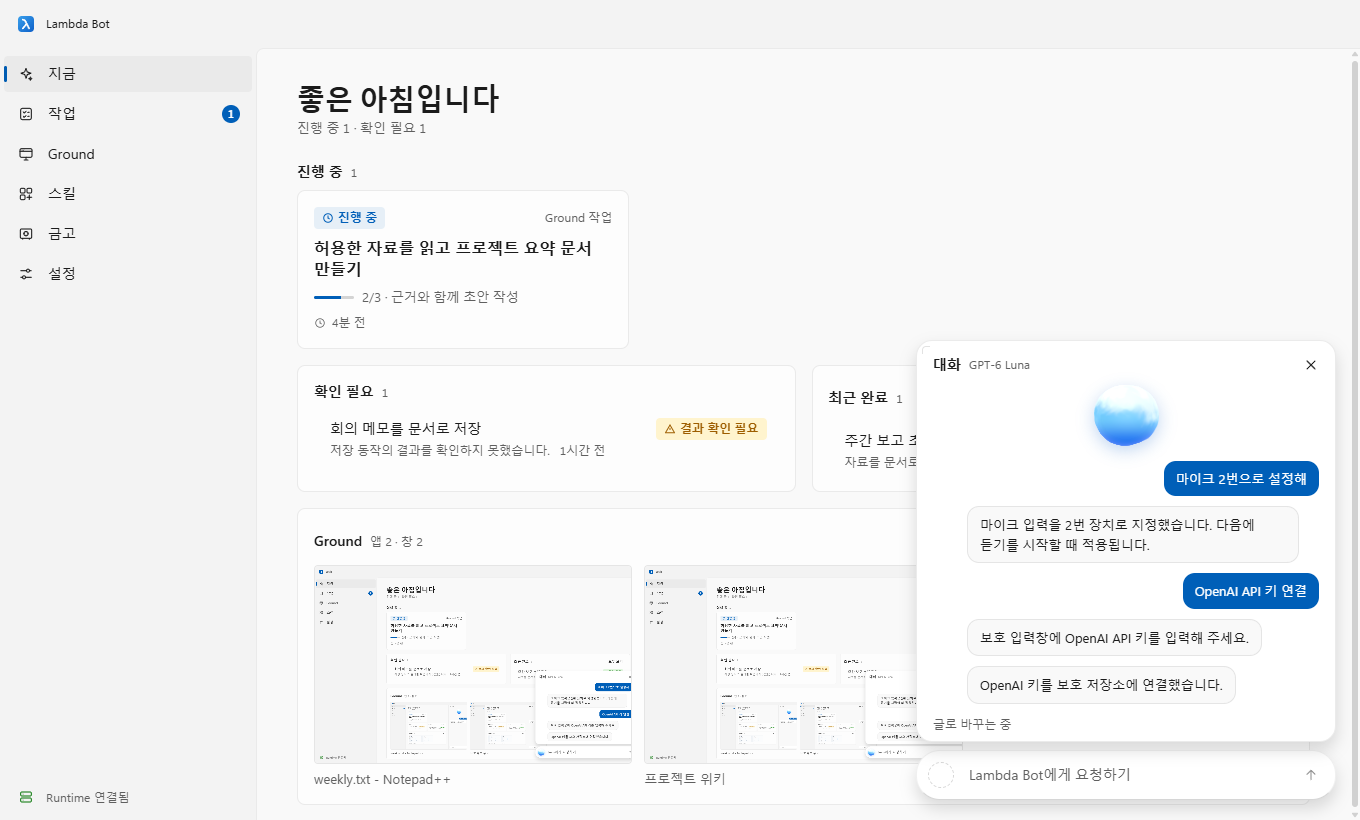
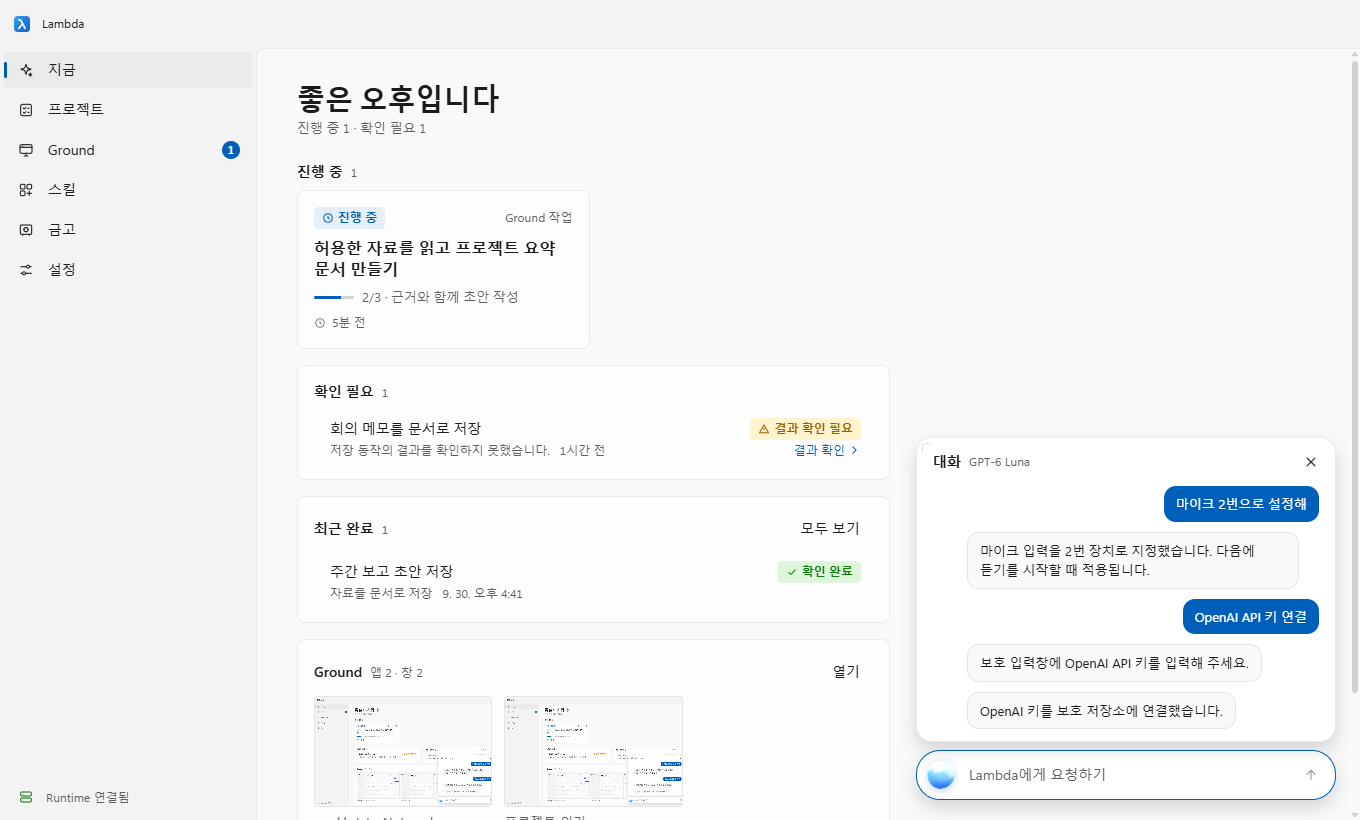
Publish Lambda branding and v0.5.19 installation guidance

diff --git a/README.md b/README.md
@@ -1,30 +1,30 @@
 <div align="center">
 
-<img src="assets/logo.svg" alt="Lambda Bot" width="168" height="168">
+<img src="assets/logo.svg" alt="Lambda" width="168" height="168">
 
-# Lambda Bot
+# Lambda
 
 ### A background assistant for Windows
 
 **It works quietly in the background, notices when you might need a hand, and always asks first.**
 
-<a href="https://github.com/atozuser0224/jevis-installer/releases/latest"><img src="https://img.shields.io/github/v/release/atozuser0224/jevis-installer?style=for-the-badge&label=DOWNLOAD&color=2f86e0" alt="Download the latest release"></a>
+<a href="https://github.com/atozuser0224/lambda-installer/releases/latest"><img src="https://img.shields.io/github/v/release/atozuser0224/lambda-installer?style=for-the-badge&label=DOWNLOAD&color=2f86e0" alt="Download the latest release"></a>
 <img src="https://img.shields.io/badge/Windows-10%20%7C%2011-0d5fc8?style=for-the-badge&logo=windows11&logoColor=white" alt="Windows 10 and 11">
-<img src="https://img.shields.io/github/downloads/atozuser0224/jevis-installer/total?style=for-the-badge&color=6b5cf0" alt="Downloads">
+<img src="https://img.shields.io/github/downloads/atozuser0224/lambda-installer/total?style=for-the-badge&color=6b5cf0" alt="Downloads">
 
 **English** · [한국어](README.ko.md)
 
 <br>
 
-<img src="assets/main.png" alt="The Lambda Bot main window with its conversation panel and the voice orb" width="920">
+<img src="assets/main.png" alt="The Lambda main window with its conversation panel and the voice orb" width="920">
 
 </div>
 
 <br>
 
-## What is Lambda Bot?
+## What is Lambda?
 
-Lambda Bot is an assistant that lives on your PC instead of in a browser tab. A small glowing **orb** sits in your taskbar. Talk to it or type, and it gets things done with the models and tools you choose. Work runs in the background, so what you are doing in front is never interrupted.
+Lambda is an assistant that lives on your PC instead of in a browser tab. A small glowing **orb** sits in your taskbar. Talk to it or type, and it gets things done with the models and tools you choose. Work runs in the background, so what you are doing in front is never interrupted.
 
 It also pays attention, if you let it. When something looks stuck, such as an error dialog that just popped up, the orb peeks out and **asks whether you want help**. You answer with one click. Nothing is done behind your back.
 
@@ -52,7 +52,7 @@ It also pays attention, if you let it. When something looks stuck, such as an er
 
 ## Private by design
 
-Lambda Bot can learn what you are working on so its offers are timely, but only if you say yes, and only what is needed.
+Lambda can learn what you are working on so its offers are timely, but only if you say yes, and only what is needed.
 
 <div align="center">
 <img src="assets/consent.png" alt="The consent screen listing what is and is not recorded" width="760">
@@ -60,36 +60,37 @@ Lambda Bot can learn what you are working on so its offers are timely, but only 
 
 - **Opt-in.** Nothing is recorded until you agree in Settings, and you can pause or erase everything at any time.
 - **Just app names and time.** It records which app was in front and for how long. It does **not** record your screen, window contents, keystrokes or what you say.
-- **Skips sensitive places.** Titles of messaging and mail windows are never kept, and password managers, private windows and Lambda Bot itself are left out.
+- **Skips sensitive places.** Titles of messaging and mail windows are never kept, and password managers, private windows and Lambda itself are left out.
 - **Stays on your PC.** The record is encrypted with Windows and deleted after 90 days.
 - **Quiet when it should be.** No offers while you are in a full-screen app, presenting or away, and the orb's bubbles are hidden from screen capture.
 
 ## Install
 
-1. Download **`JevisSetup.exe`** from the [latest release](https://github.com/atozuser0224/jevis-installer/releases/latest) and run it.
+1. Download **`LambdaSetup.exe`** from the [latest release](https://github.com/atozuser0224/lambda-installer/releases/latest) and run it.
 2. Pick what to install. The installer downloads and sets up what is missing:
-   - Lambda Bot (required)
+   - Lambda (required)
    - .NET 8 Desktop Runtime (only if you do not have it)
    - Python 3.11 with the voice and AI libraries (required, about 3 GB)
    - A desktop shortcut
-3. Start Lambda Bot and follow the first-run screen. Voice models are downloaded there, and you connect a model provider or a CLI you already use.
+3. Start Lambda and follow the first-run screen. Voice models are downloaded there, and you connect a model provider or a CLI you already use.
 
 **Requirements:** Windows 10 or 11.
 
 > [!NOTE]
 > The installer is not code-signed yet, so Windows SmartScreen may warn you. Choose **More info**, then **Run anyway**.
 
-Lambda Bot was previously called Jevis, which is why the installer file and install folder still carry that name.
 
 ## Updating
 
-Lambda Bot checks this page for new releases and tells you inside the app. **Update** downloads the latest version into the same folder.
+Version 0.5.19 uses the Lambda name for the installer, app folder and data folders. For versions installed under a previous name, run `LambdaSetup.exe` from the latest release. Existing settings, history and credentials are retained in their original folders but are not migrated automatically.
+
+Lambda checks this page for new releases and tells you inside the app. **Update** downloads the latest version into the same folder.
 
 ## Feedback
 
-Found a bug or have an idea? [Open an issue](https://github.com/atozuser0224/jevis-installer/issues).
+Found a bug or have an idea? [Open an issue](https://github.com/atozuser0224/lambda-installer/issues).
 
 <div align="center">
 <br>
-<sub>Lambda Bot · a background assistant for Windows</sub>
+<sub>Lambda · a background assistant for Windows</sub>
 </div>

diff --git a/README.ko.md b/README.ko.md
@@ -1,30 +1,30 @@
 <div align="center">
 
-<img src="assets/logo.svg" alt="Lambda Bot" width="168" height="168">
+<img src="assets/logo.svg" alt="Lambda" width="168" height="168">
 
-# Lambda Bot
+# Lambda
 
 ### Windows용 백그라운드 어시스턴트
 
 **조용히 뒤에서 일하고, 도움이 필요해 보이면 알아채고, 언제나 먼저 물어봅니다.**
 
-<a href="https://github.com/atozuser0224/jevis-installer/releases/latest"><img src="https://img.shields.io/github/v/release/atozuser0224/jevis-installer?style=for-the-badge&label=DOWNLOAD&color=2f86e0" alt="최신 릴리스 다운로드"></a>
+<a href="https://github.com/atozuser0224/lambda-installer/releases/latest"><img src="https://img.shields.io/github/v/release/atozuser0224/lambda-installer?style=for-the-badge&label=DOWNLOAD&color=2f86e0" alt="최신 릴리스 다운로드"></a>
 <img src="https://img.shields.io/badge/Windows-10%20%7C%2011-0d5fc8?style=for-the-badge&logo=windows11&logoColor=white" alt="Windows 10, 11">
-<img src="https://img.shields.io/github/downloads/atozuser0224/jevis-installer/total?style=for-the-badge&color=6b5cf0" alt="다운로드 수">
+<img src="https://img.shields.io/github/downloads/atozuser0224/lambda-installer/total?style=for-the-badge&color=6b5cf0" alt="다운로드 수">
 
 [English](README.md) · **한국어**
 
 <br>
 
-<img src="assets/main.png" alt="대화창과 음성 오브가 있는 Lambda Bot 메인 화면" width="920">
+<img src="assets/main.png" alt="대화창과 음성 오브가 있는 Lambda 메인 화면" width="920">
 
 </div>
 
 <br>
 
-## Lambda Bot이 뭔가요?
+## Lambda가 뭔가요?
 
-Lambda Bot은 브라우저 탭이 아니라 내 PC 안에 사는 어시스턴트입니다. 작업표시줄에 작은 **오브**가 떠 있고, 말이나 글로 부탁하면 내가 고른 모델과 도구로 일을 처리합니다. 일은 뒤에서 돌아가므로 지금 하던 작업은 끊기지 않습니다.
+Lambda는 브라우저 탭이 아니라 내 PC 안에 사는 어시스턴트입니다. 작업표시줄에 작은 **오브**가 떠 있고, 말이나 글로 부탁하면 내가 고른 모델과 도구로 일을 처리합니다. 일은 뒤에서 돌아가므로 지금 하던 작업은 끊기지 않습니다.
 
 허락하면 지켜보기도 합니다. 방금 오류 창이 떴다거나 막힌 것처럼 보이면 오브가 빼꼼 나와서 **도와드릴까요?** 하고 먼저 묻습니다. 한 번 클릭으로 답하면 되고, 몰래 하는 일은 없습니다.
 
@@ -60,36 +60,36 @@ Lambda Bot은 브라우저 탭이 아니라 내 PC 안에 사는 어시스턴트
 
 - **직접 켤 때만.** 설정에서 동의하기 전에는 아무것도 기록하지 않고, 언제든 일시정지하거나 전부 지울 수 있습니다.
 - **앱 이름과 시간만.** 어떤 앱이 앞에 있었는지와 시간만 기록합니다. 화면, 창 내용, 키 입력, 내가 한 말은 **기록하지 않습니다**.
-- **민감한 곳은 건너뜁니다.** 메신저·메일 창의 제목은 남기지 않고, 비밀번호 관리자, 시크릿 창, Lambda Bot 자신은 제외합니다.
+- **민감한 곳은 건너뜁니다.** 메신저·메일 창의 제목은 남기지 않고, 비밀번호 관리자, 시크릿 창, Lambda 자신은 제외합니다.
 - **내 PC 안에만.** 기록은 Windows로 암호화해 저장하고 90일 뒤 지웁니다.
 - **조용해야 할 때는 조용히.** 전체화면, 발표, 자리 비움 중에는 먼저 말을 걸지 않고, 오브의 말풍선은 화면 캡처에 보이지 않습니다.
 
 ## 설치
 
-1. [최신 릴리스](https://github.com/atozuser0224/jevis-installer/releases/latest)에서 **`JevisSetup.exe`**를 받아 실행합니다.
+1. [최신 릴리스](https://github.com/atozuser0224/lambda-installer/releases/latest)에서 **`LambdaSetup.exe`**를 받아 실행합니다.
 2. 설치할 항목을 고르면 없는 것만 받아서 설치합니다.
-   - Lambda Bot (필수)
+   - Lambda (필수)
    - .NET 8 Desktop Runtime (없을 때만)
    - Python 3.11 + 음성·AI 라이브러리 (필수, 약 3GB)
    - 바탕 화면 바로가기
-3. Lambda Bot을 실행하고 첫 실행 화면을 따라 하세요. 음성 모델은 여기서 받고, 모델 제공자나 이미 쓰는 CLI를 연결합니다.
+3. Lambda를 실행하고 첫 실행 화면을 따라 하세요. 음성 모델은 여기서 받고, 모델 제공자나 이미 쓰는 CLI를 연결합니다.
 
 **요구 사항:** Windows 10 또는 11
 
 > [!NOTE]
 > 설치 프로그램에 아직 코드 서명이 없어 Windows SmartScreen이 경고할 수 있습니다. **추가 정보**를 누른 뒤 **실행**을 선택하세요.
 
-Lambda Bot은 예전에 Jevis라는 이름이었어서, 설치 파일과 설치 폴더에는 아직 그 이름이 남아 있습니다.
-
 ## 업데이트
 
-Lambda Bot이 이 페이지의 새 릴리스를 확인해서 앱 안에서 알려 줍니다. **업데이트**를 누르면 같은 폴더에 최신 버전을 받아 설치합니다.
+0.5.19부터 설치 파일, 앱 폴더, 데이터 폴더 이름을 Lambda로 통일했습니다. 이전 이름으로 설치한 버전은 최신 릴리스의 `LambdaSetup.exe`로 새로 설치해 주세요. 기존 설정·기록·자격 증명은 원래 폴더에 보존되며 자동 이관하지 않습니다.
+
+Lambda가 이 페이지의 새 릴리스를 확인해서 앱 안에서 알려 줍니다. **업데이트**를 누르면 같은 폴더에 최신 버전을 받아 설치합니다.
 
 ## 의견 보내기
 
-버그나 아이디어가 있나요? [이슈를 남겨 주세요](https://github.com/atozuser0224/jevis-installer/issues).
+버그나 아이디어가 있나요? [이슈를 남겨 주세요](https://github.com/atozuser0224/lambda-installer/issues).
 
 <div align="center">
 <br>
-<sub>Lambda Bot · Windows용 백그라운드 어시스턴트</sub>
+<sub>Lambda · Windows용 백그라운드 어시스턴트</sub>
 </div>
